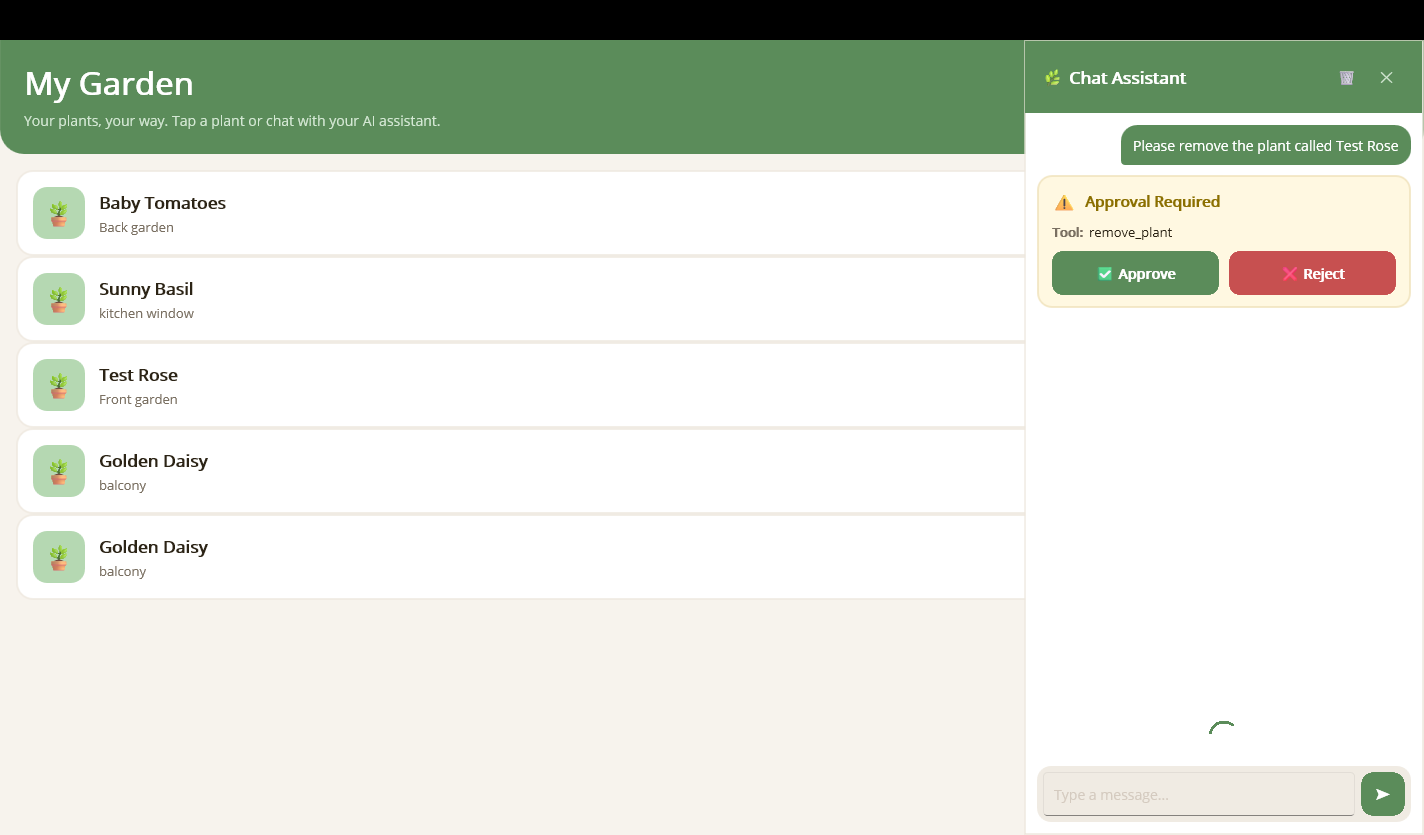
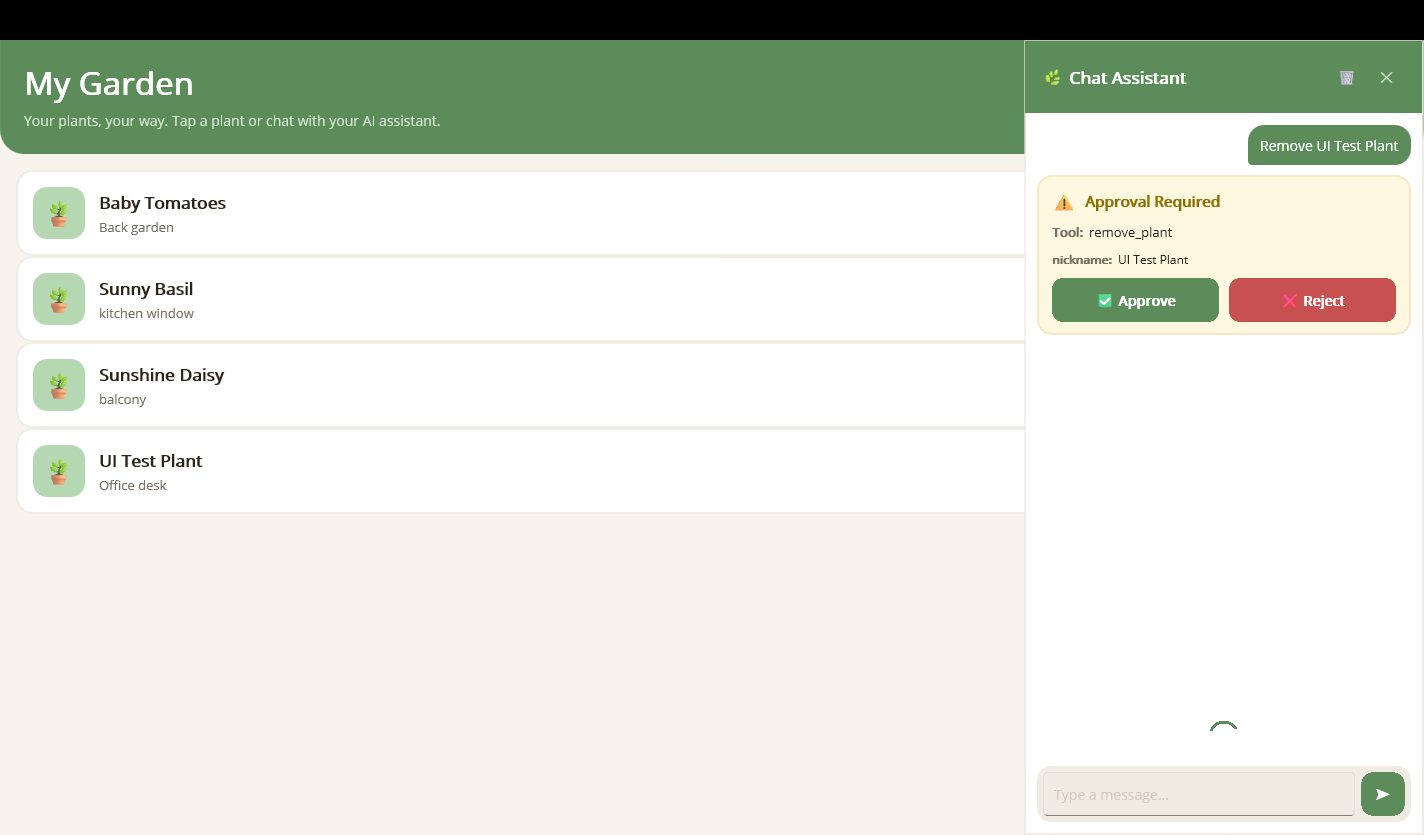
Update docs screenshots and HITL guide for issues #2/#3/#4
- Recapture all approval screenshots with new disable-not-replace behavior
- Add approval-batch.png showing checkbox-based batch care approval
- Update human-in-the-loop.md:
  - Document disable-not-replace (cards stay, inputs disabled, status text)
  - Add Batch Approval section with code sample and screenshot
  - Update Key Points with IApprovalContentProvider, InnerViewType, library-owns-buttons
  - Add BatchCareApproval sample code path reference

diff --git a/docs/human-in-the-loop.md b/docs/human-in-the-loop.md
@@ -178,18 +178,54 @@ In the screenshot below the user changed *"Sun Daisy"* to
 
 ## After Rejection
 
-When the user taps **Reject**, the approval card is replaced with a
-"❌ tool_name — rejected by user" note and the tool is **not** invoked.
+After approval or rejection, the card **stays visible but is disabled** — inputs become
+read-only and the buttons are replaced with a status message. Chat history is preserved.
+
+## After Rejection
+
+When the user taps **Reject**, the buttons are replaced with
+"❌ Rejected — tool_name" and the tool is **not** invoked.
 
 ![After Rejection](images/approval-rejected.png)
+
+## Batch Approval with Checkboxes
+
+For tools that accept arrays (e.g. logging multiple care events at once), create
+a custom content view with checkboxes. The user can uncheck items they didn't do —
+only the selected items are submitted on approval.
+
+![Batch Care Approval](images/approval-batch.png)
+
+The batch care tool demonstrates this pattern:
+
+```csharp
+[ExportAIFunction("log_batch_care_events",
+    Description = "Log multiple care events for a plant at once.",
+    ApprovalRequired = true)]
+public async Task<List<CareEvent>> LogBatchCareEventsAsync(
+    string plantNickname, List<string> eventTypes) { ... }
+```
+
+Register the checkbox view via `ToolApprovalMapping.InnerViewType`:
+
+```xml
+<mauiChat:ToolApprovalMapping ToolName="log_batch_care_events"
+    InnerViewType="{x:Type local:BatchCareApprovalView}"
+    ViewType="{x:Type mauiChat:ToolApprovalView}" />
+```
 
 ## Key Points
 
 - **`ApprovalRequired = true`** is the only change needed in your service code.
 - **No `MauiProgram.cs` changes** — the discovery pipeline wraps the function
   automatically.
-- **Custom approval views** let users inspect and edit arguments before the tool runs.
+- **Library owns the Approve/Reject buttons** — app views implement
+  `IApprovalContentProvider` to provide editable content only.
+- **Cards stay after resolution** — inputs disabled, buttons replaced with status text.
+- **`ToolApprovalMapping.InnerViewType`** — declare custom content per tool name.
 - **`ChatViewModel.RespondToApproval()`** supports passing modified arguments back to
   the tool invocation.
 
-> **Full sample code:** See `samples/MauiSampleApp/Chat/Contents/PlantApproval/` for the complete editable plant approval implementation.
+> **Full sample code:** See `samples/MauiSampleApp/Chat/Contents/PlantApproval/` for
+> the editable plant form and `samples/MauiSampleApp/Chat/Contents/BatchCareApproval/`
+> for the checkbox-based batch approval.
